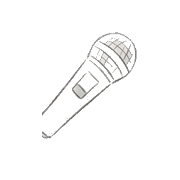
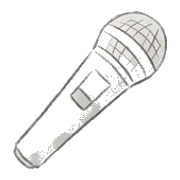
消除图案改版:换回旧版星星、重切星星/麦克风的边缘缺角;小派小远两张角色图从常设图案改为只在剧情日记/纪念品触发关卡出现;图案数量曲线放缓,大多数关卡维持4~9种,12种全开只留给73关后

Changed region(s): [[0.0556, 0.0556, 0.9444, 0.9444]]

diff --git a/game.js b/game.js
@@ -30,20 +30,23 @@ const DIARY_BG_BBOX = {x1:616, y1:1001, x2:1431, y2:2199};
 
 /* ---------------- 消除图案(六种,配色取自房间美术的粉/杏/紫/绿/卡其/蓝) ---------------- */
 const TILE_TYPES = [
-  { name:'bear',      bg:'#f6e8da', img:'assets/tiles/bear.png' },
-  { name:'sun',       bg:'#fff3c4', img:'assets/tiles/sun.png' },
   { name:'butterfly', bg:'#e3f2fb', img:'assets/tiles/butterfly.png' },
+  { name:'star',      bg:'#fde9c8', img:'assets/tiles/star.png' },
+  { name:'bunny',     bg:'#fbe3ef', img:'assets/tiles/bunny.png' },
+  { name:'dogface',   bg:'#eef2e0', img:'assets/tiles/dogface.png' },
+  { name:'sun',       bg:'#fff3c4', img:'assets/tiles/sun.png' },
   { name:'dog',       bg:'#fbe9dd', img:'assets/tiles/dog.png' },
   { name:'movie',     bg:'#e8e8ef', img:'assets/tiles/movie.png' },
   { name:'mic',       bg:'#dfe9ee', img:'assets/tiles/mic.png' },
-  { name:'star',      bg:'#fde9c8', img:'assets/tiles/star.png' },
   { name:'planet',    bg:'#eef0dc', img:'assets/tiles/planet.png' },
   { name:'rose',      bg:'#fbe0e6', img:'assets/tiles/rose.png' },
-  { name:'starface',  bg:'#fff2d6', img:'assets/tiles/starface.png' },
+  { name:'bear',      bg:'#f6e8da', img:'assets/tiles/bear.png' },
   { name:'moonface',  bg:'#ece6f7', img:'assets/tiles/moonface.png' },
-  { name:'bunny',     bg:'#fbe3ef', img:'assets/tiles/bunny.png' },
-  { name:'dogface',   bg:'#eef2e0', img:'assets/tiles/dogface.png' },
+  { name:'xiaopai',   bg:'#fadce6', img:'assets/tiles/xiaopai.png' },
+  { name:'xiaoyuan',  bg:'#dff0df', img:'assets/tiles/xiaoyuan.png' },
 ];
+// 小派/小远两张角色图不算常设图案,只在剧情日记关卡(MILESTONES)跟纪念品触发关卡(MEMENTO_LEVELS)额外加入池子
+const SPECIAL_TYPE_INDICES = [12, 13];
 
 /* ---------------- 收藏册占位内容 ---------------- */
 const POSTCARD_ITEMS = [
@@ -213,7 +216,9 @@ you and me"
 function generateLevelConfig(n){
   const isMilestone = MILESTONES.includes(n);
   const size = n<=12?6 : n<=30?7 : n<=50?8 : 9;               // 棋盘 6x6 → 9x9,比旧版早一点升级
-  const tileTypes = n<=4?4 : n<=8?5 : n<=11?6 : n<=14?7 : n<=17?8 : n<=19?9 : n<=34?10 : n<=49?11 : n<=64?12 : 13; // 图案种类随关卡递增,19关前用原本 9 种,19关后陆续加入新画的 4 种(星星/月亮/兔兔/狗狗)
+  const tileTypes = n<=4?4 : n<=14?5 : n<=24?6 : n<=34?7 : n<=44?8 : n<=56?9 : n<=64?10 : n<=72?11 : 12; // 图案种类随关卡递增,大多数关卡维持在4~9种(消消乐常见难度区间),12种全开只留给73关后的收尾关卡
+  const isSpecialLevel = isMilestone || MEMENTO_LEVELS.includes(n);
+  const extraTypeIndices = isSpecialLevel ? SPECIAL_TYPE_INDICES : []; // 小派/小远只在剧情日记关卡跟纪念品触发关卡额外出现
   let moves = Math.max(12, 22 - Math.floor(n/5));              // 步数更紧
   let targetScore = Math.round((size*size) * (15 + n*0.9));    // 目标分数基准拉高、成长更陡
   const cellCount = size*size;
@@ -224,7 +229,7 @@ function generateLevelConfig(n){
     targetScore = Math.round(targetScore*1.15);
     numFrozen = Math.min(numFrozen+2, Math.floor(cellCount*0.26));
   }
-  return { level:n, rows:size, cols:size, tileTypes, moves, targetScore, numFrozen, isMilestone };
+  return { level:n, rows:size, cols:size, tileTypes, moves, targetScore, numFrozen, isMilestone, extraTypeIndices };
 }
 
 /* ============================================================
@@ -587,6 +592,14 @@ function openBoard(levelNum){
 
 function randType(n){ return Math.floor(Math.random()*n); }
 
+/* 一般随机取图案外,剧情/纪念品关卡还要把小派/小远(cfg.extraTypeIndices)也纳入抽选池 */
+function pickType(cfg){
+  const extra = cfg.extraTypeIndices || [];
+  if(extra.length===0) return randType(cfg.tileTypes);
+  const idx = randType(cfg.tileTypes + extra.length);
+  return idx < cfg.tileTypes ? idx : extra[idx - cfg.tileTypes];
+}
+
 function generateSolvableBoard(cfg){
   let cells, tries=0;
   do{
@@ -598,7 +611,7 @@ function generateSolvableBoard(cfg){
 }
 
 function fillNoInitialMatches(cfg){
-  const {rows, cols, tileTypes} = cfg;
+  const {rows, cols} = cfg;
   const cells = [];
   for(let r=0;r<rows;r++){
     const row=[];
@@ -606,7 +619,7 @@ function fillNoInitialMatches(cfg){
       let t;
       let attempt=0;
       do{
-        t = randType(tileTypes);
+        t = pickType(cfg);
         attempt++;
       }while(attempt<10 && (
         (c>=2 && row[c-1] && row[c-2] && row[c-1].type===t && row[c-2].type===t) ||
@@ -925,7 +938,7 @@ function applyGravity(cfg){
       }
     }
     for(let r=write;r>=0;r--){
-      BOARD.cells[r][c] = { type: randType(cfg.tileTypes), frozen:false };
+      BOARD.cells[r][c] = { type: pickType(cfg), frozen:false };
     }
   }
 }
